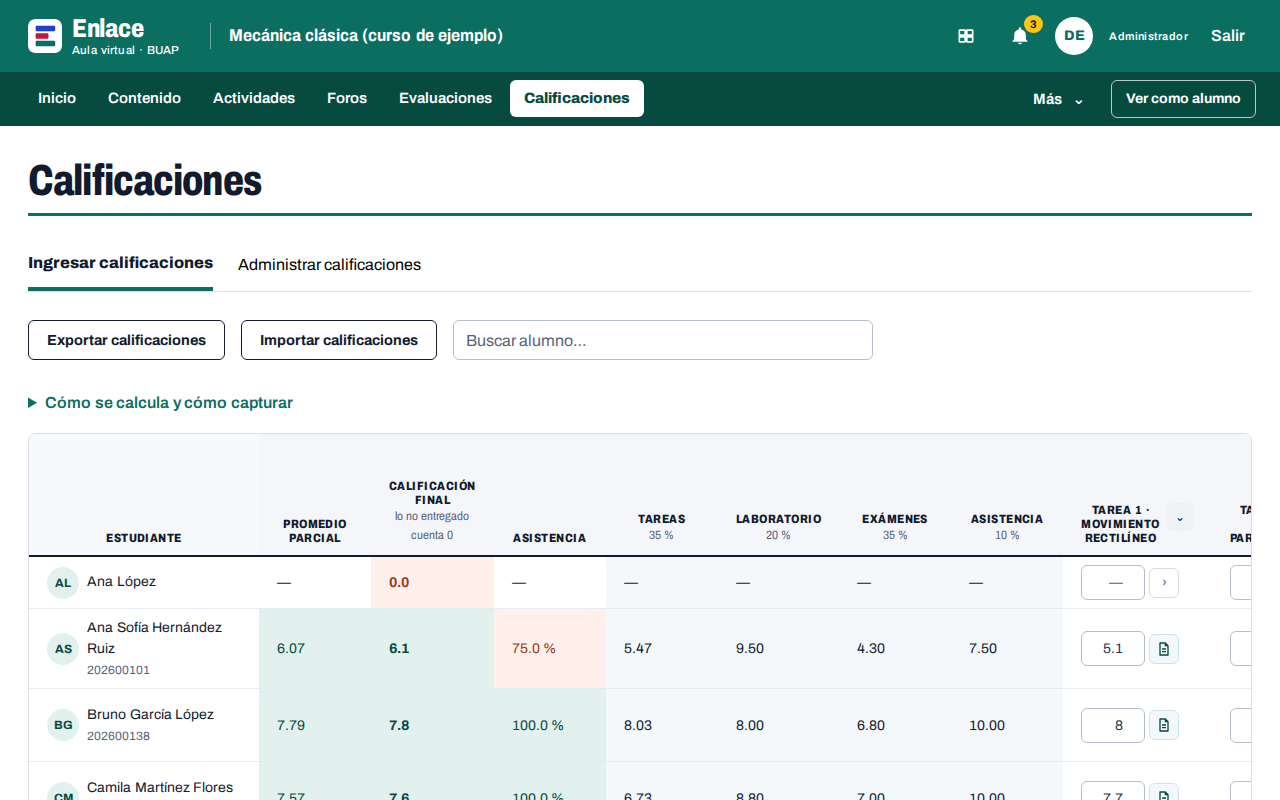
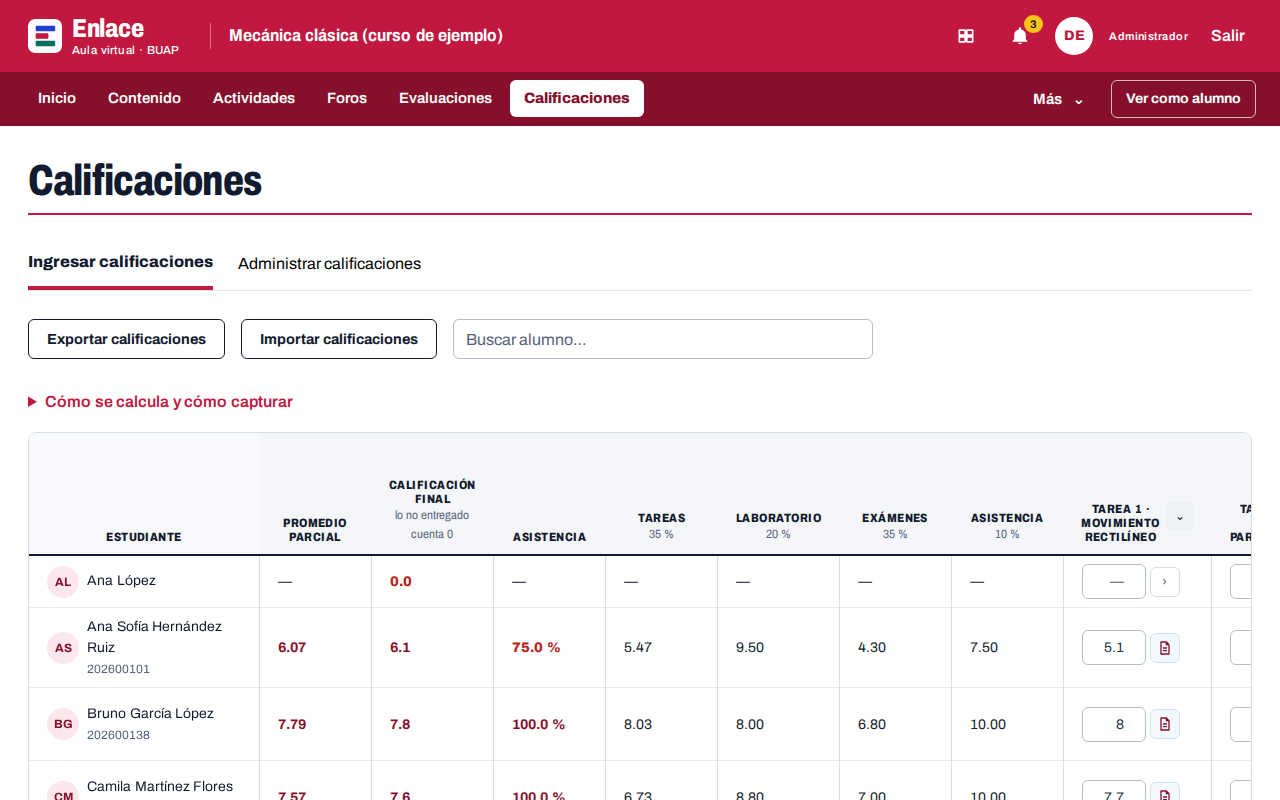
Rediseño 12.37: ajustes de la revisión final (sombras cortas, índice activo en tinta, libro sin pasteles, título de portada alineado, sin «Mis cursos» sin sesión)
Claude-Session: https://claude.ai/code/session_01C1oRgaYWxPpbnk2a9i39sw

diff --git a/src/public/coleccion.css b/src/public/coleccion.css
@@ -76,7 +76,7 @@ h3 { font-stretch: 90%; font-weight: 700; }
 /* En los anchos condensados el espacio de Archivo es muy angosto: se abre un poco entre palabras. */
 h1, h2, h3, .wordmark, .course-heading, .course-title-link, th { word-spacing: 0.08em; }
 /* El título de cada pantalla lleva el filete de tinta del tomo. */
-#main h1 { padding-bottom: 10px; border-bottom: 3px solid var(--tomo); }
+#main h1 { padding-bottom: 10px; border-bottom: 2px solid var(--tomo); }
 #main .quiz-question h1, #main .empty h1 { border: 0; padding: 0; }
 /* Sin antetítulos sobre los títulos: el título habla solo. */
 .workspace-eyebrow { display: none !important; }
@@ -194,7 +194,7 @@ th { font-family: var(--condensada); font-stretch: 85%; font-weight: 800; letter
 .notice { border-left: 0; border-radius: var(--radius-sm); background: var(--tomo-papel); }
 .notice h3 { color: var(--tomo-lomo); }
 dialog#modal { border-radius: var(--radius); border: 0; box-shadow: var(--shadow-lg); }
-dialog#modal .dialog-head { border-bottom: 3px solid var(--tomo); }
+dialog#modal .dialog-head { border-bottom: 2px solid var(--tomo); }
 dialog#modal .dialog-head h2 { font-size: 24px; font-weight: 800; font-stretch: 78%; }
 #toast { background: var(--tinta); color: #fff; border-radius: var(--radius-sm); }
 footer { background: transparent; color: var(--ink-faint); }
@@ -358,3 +358,25 @@ var.qvar { background: var(--tomo-papel); color: var(--tomo-lomo); }
   .shell > header, #topnav, article.course { transition: none; }
 }
 .expand-mark { color: var(--ink-soft); }
+
+/* ---- Ajustes de la revisión final (12.37) ----------------------------------------------------------- */
+/* Papel blanco frío; los paneles se separan por filete y una sombra corta con desplazamiento, no difusa. */
+:root { --canvas: #f6f8fa; }
+.panel, .dash-card, .home-dashboard > section, .workspace-filterbar, .material-entry, .table-wrap, .login-layout, .module-card {
+  box-shadow: 0 2px 0 rgba(17, 26, 46, 0.1) !important;
+}
+article.course { box-shadow: 0 2px 0 rgba(17, 26, 46, 0.14); }
+article.course:hover { box-shadow: 0 3px 0 var(--tomo-lomo); }
+/* La portada: el título siempre a la izquierda, en la misma línea base. */
+article.course .course-cover h2 { width: 100%; text-align: left; margin-top: auto; }
+article.course .course-card-footer .text-btn { color: var(--tomo) !important; }
+/* Índice de unidades: el elemento activo es un bloque de la tinta, sin franja lateral. */
+.content-tree .tree-unit button.active, .toc-all.selected { background: var(--tomo) !important; color: #fff !important; box-shadow: none !important; border-color: var(--tomo) !important; }
+.content-tree .tree-unit button.active small, .toc-all.selected span { color: #fff !important; background: transparent; }
+/* Libro: sin rellenos pastel; el estado va en la cifra (tinta del tomo o rojo de alerta). */
+.gradebook td, .gradebook .grade-pass, .gradebook .grade-low { background: transparent !important; }
+.gradebook .grade-pass { color: var(--tinta); font-weight: 700; } /* nunca en la tinta: con granza parecería reprobado */
+.gradebook .grade-low { color: #b42318; font-weight: 800; }
+.gradebook td { border-right: 1px solid var(--line); }
+/* Sin sesión no hay «Mis cursos» que mostrar en la barra. */
+body.signed-out #crumb { visibility: hidden; }
